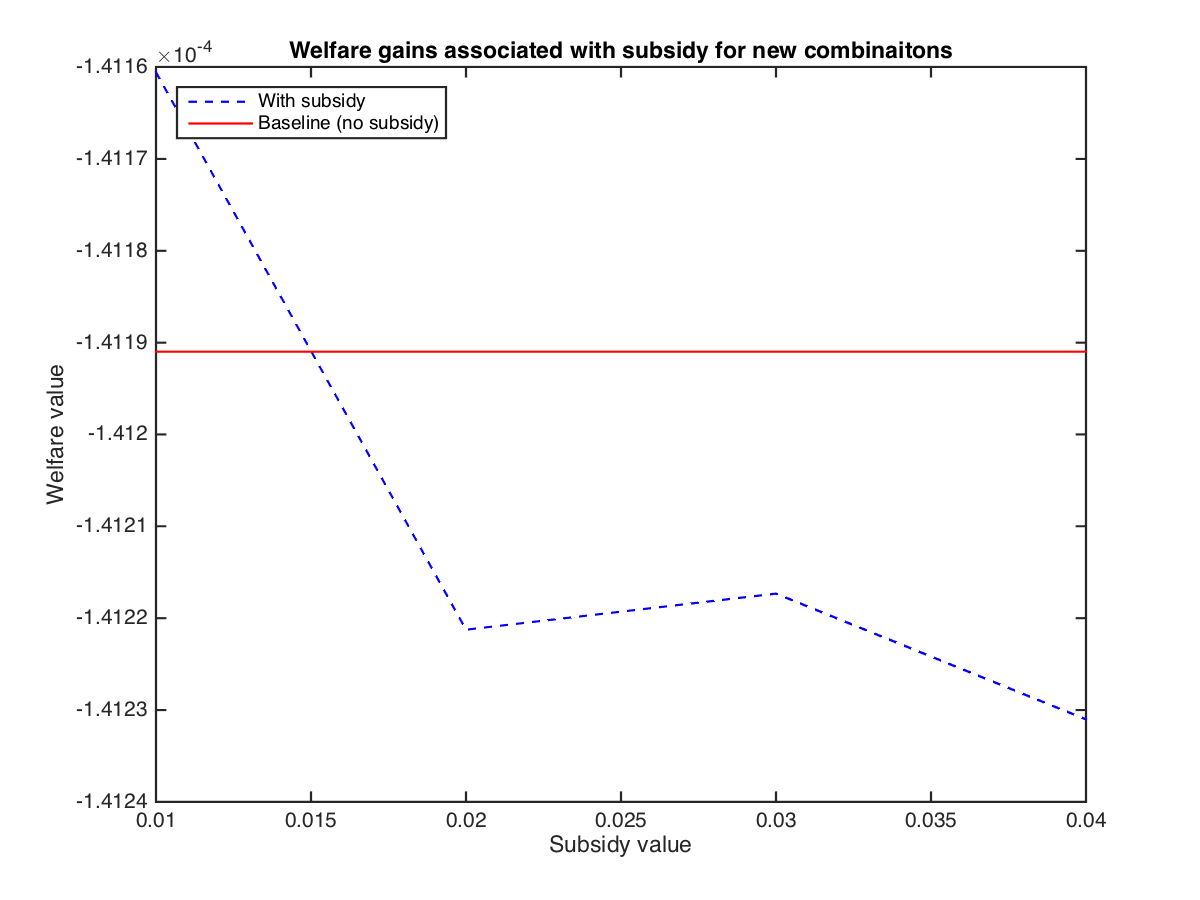
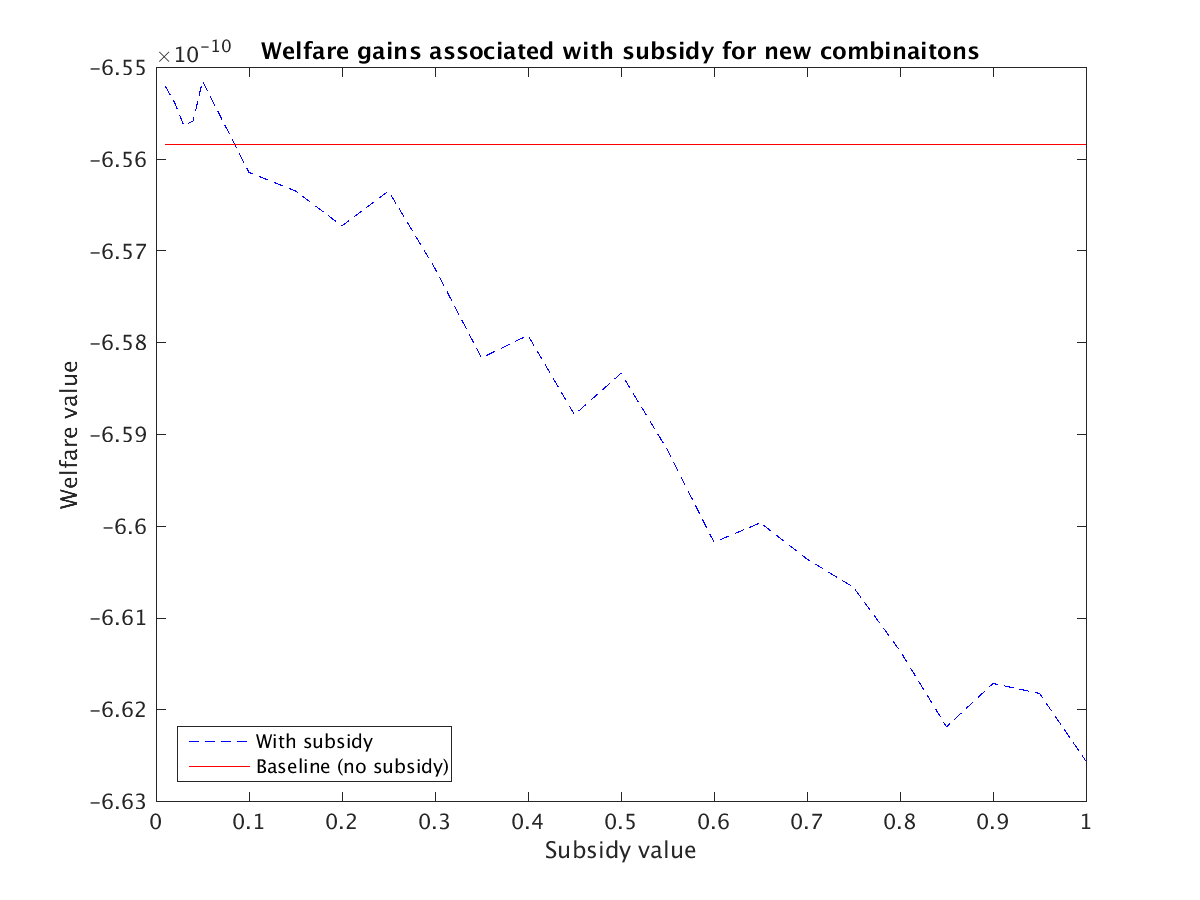
ran welfare simulations for log utility

diff --git a/simulations/welfare_counterfactuals/optimal_subsidy_zeta.m b/simulations/welfare_counterfactuals/optimal_subsidy_zeta.m
@@ -15,7 +15,7 @@ xxi = 200;   % 1/xi is the fraction of feasible combinations
 zeta = 0.012; % probability technology line shuts down
 
 ggamma = .6; % match to labor share of GDP
-epsilon = 2; % from Acemoglu, Akcigit, Bloom and Kerr (2013) - pg 21
+epsilon = 3; % from Acemoglu, Akcigit, Bloom and Kerr (2013) - pg 21
 
 rr = 0.05; % interest rate
 bbeta = 1/(1+rr); % intertemporal discount factor
@@ -71,7 +71,7 @@ WChangeNC = -(WelfareNC - Welfare0) ./ Welfare0;
 
 welfare_gains_pp = figure(1);
 plot(subsidy_vals, WChangeNT, '--b', subsidy_vals, WChangeNC, 'r')
-legend('New technologies', 'New combination', 'location', 'Northwest')
+legend('New technologies', 'New combination', 'location', 'Northeast')
 title('Welfare gains (%) associated with subsidy value')
 xlabel('Subsidy value')
 ylabel('Welfare gain')
@@ -79,7 +79,7 @@ saveas(gcf, 'tex_files/figures/welfare_pp.png')
 
 welfare_gains_NT = figure(2);
 plot(subsidy_vals, WelfareNT, '--b', subsidy_vals, Welfare0, 'r')
-legend('With subsidy', 'Baseline (so subsidy)', 'location', 'Northwest')
+legend('With subsidy', 'Baseline (so subsidy)', 'location', 'Northeast')
 title('Welfare gains associated with subsidy for new technologies')
 xlabel('Subsidy value')
 ylabel('Welfare value')
@@ -87,7 +87,7 @@ saveas(gcf, 'tex_files/figures/welfare_NT.png')
 
 welfare_gains_NC = figure(3);
 plot(subsidy_vals, WelfareNC, '--b', subsidy_vals, Welfare0, 'r')
-legend('With subsidy', 'Baseline (no subsidy)', 'location', 'Northwest')
+legend('With subsidy', 'Baseline (no subsidy)', 'location', 'Southwest')
 title('Welfare gains associated with subsidy for new combinaitons')
 xlabel('Subsidy value')
 ylabel('Welfare value')

diff --git a/simulations/welfare_counterfactuals/simulate_path_zeta.m b/simulations/welfare_counterfactuals/simulate_path_zeta.m
@@ -110,6 +110,7 @@ function  return_vars = simulate_path_zeta(Tmax, params, nrofinv, period, subsid
 	    growth = zeros(Mt,1);
 	    patent_type = zeros(Mt,3); % in each period, store the new patents that were created
 	    patent_cost = zeros(Mt,1); % keep track of inventors' costs
+        subsidy_cost = zeros(Mt,1); % keep track of the subsidy spending
 	    
 	    mmu = rand(Mt,1)*2*nrofinv/Mt;  % number of inventors in product line
 	    switchtocold = ( rand(Mt,1) < mmu.*xxi./(2.^( Mmat(1:Mt,2) - (year - Mmat(1:Mt,5))*zeta - 2)));   % (= 1 reuse, = 0 new comb)
@@ -219,8 +220,8 @@ function  return_vars = simulate_path_zeta(Tmax, params, nrofinv, period, subsid
 	    firm_cost(t) = (1-ggamma)*sum(quality);
 	    policy_cost(t) = sum(subsidy_cost*mean(quality));
 	    Consumption(t) = GDP(t) - inventor_cost(t) - firm_cost(t) - policy_cost(t);
-	    %Discounted_utility(t) = bbeta^t * Consumption(t)^(1-epsilon) / (1-epsilon) ;
-	    Discounted_utility(t) = bbeta^t * log( Consumption(t) ) ;
+	    Discounted_utility(t) = bbeta^t * Consumption(t)^(1-epsilon) / (1-epsilon) ;
+	    %Discounted_utility(t) = bbeta^t * log( Consumption(t) ) ;
 
 	    % compute total number of patents by category
 	    nrofnewtech = sum(patent_type(:,1));
@@ -228,7 +229,7 @@ function  return_vars = simulate_path_zeta(Tmax, params, nrofinv, period, subsid
 	    nrofreuse = sum(patent_type(:,3));
 	    
 	    % keep track of number of patents created each year
-	    nrofpatents(t) = nrofnewtech+nrofnewcomb+nrofreuse;
+	    % nrofpatents(t) = nrofnewtech+nrofnewcomb+nrofreuse;
 	    
 	    % Populate summary matrix
 	    summat(t+1,1)= year;
